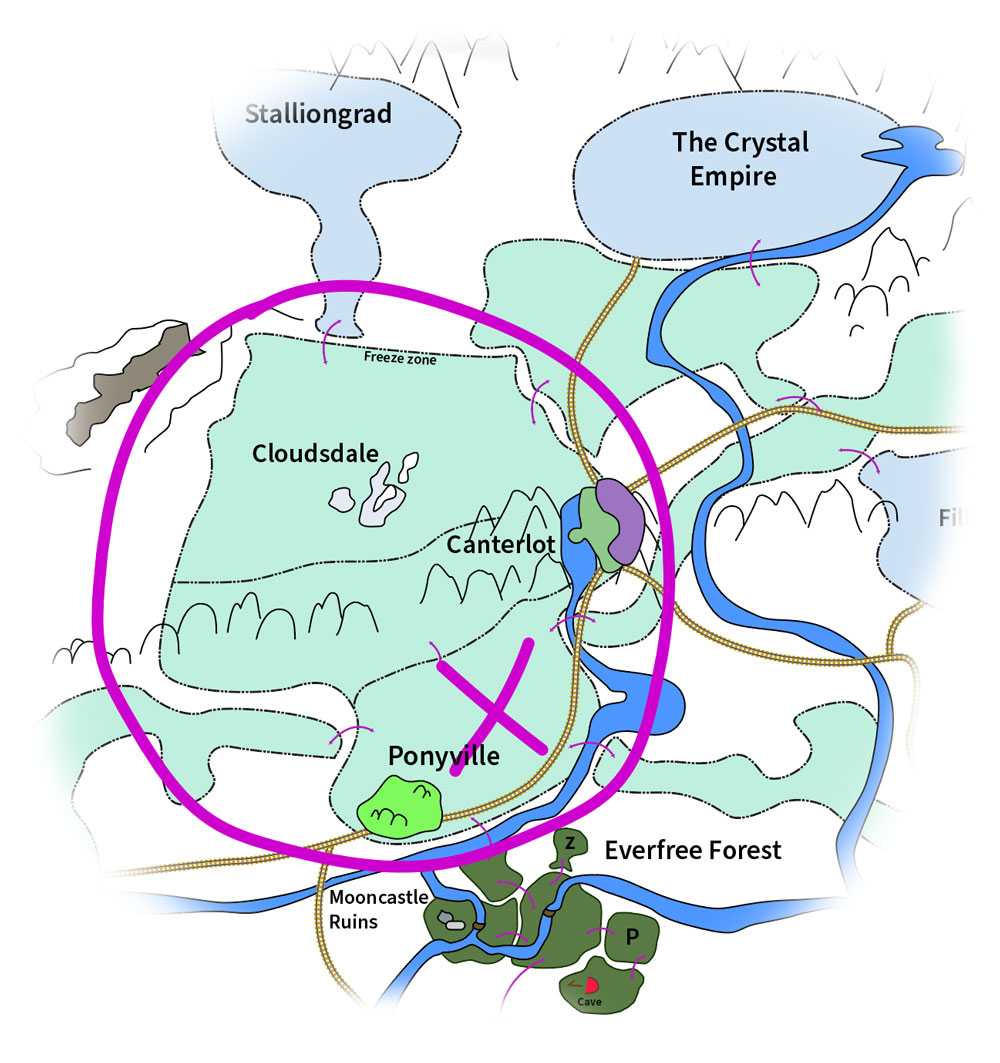
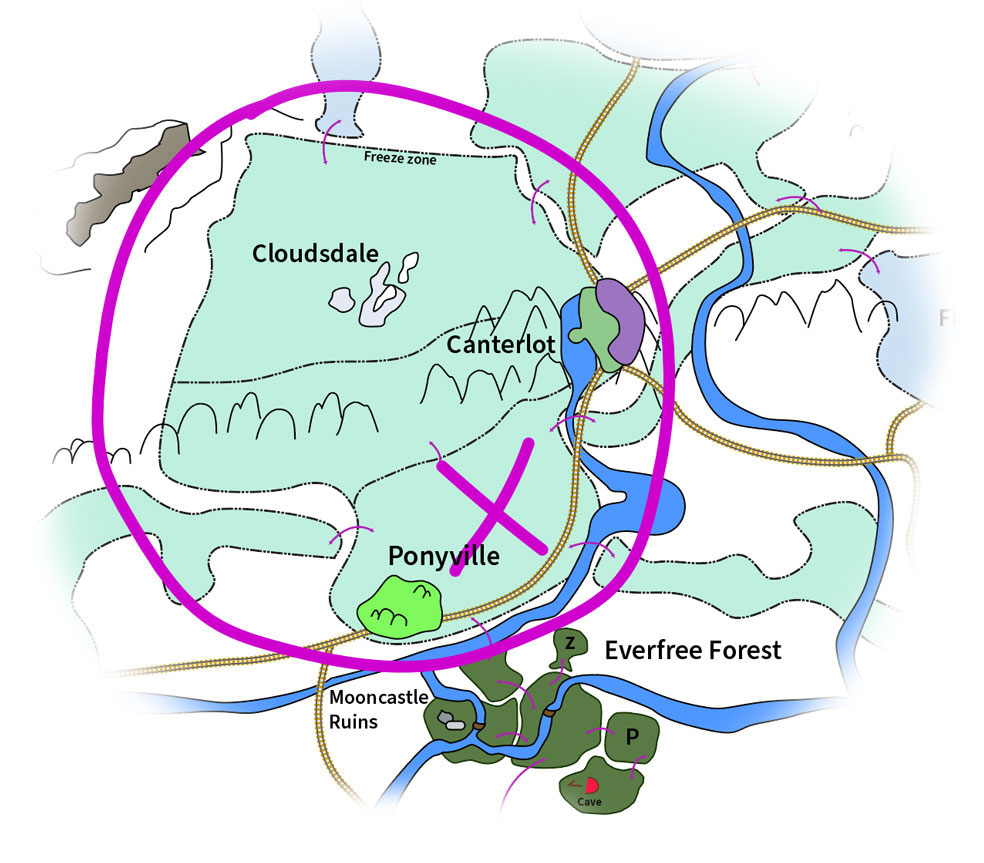
almost done with macro map page
need to add end images of in-unity world. get photoswipe UI working/overlay the main toolbar somehow

diff --git a/maps.html b/maps.html
@@ -54,18 +54,104 @@
         <h3>We needed a connecting zone</h3>
       <p>To connect our big cities and other locations, we needed a middle zone. Based on rough approximations of city location and climate, I diagrammed the world to get us started. Because of scale, I broke this continent into 3 areas to focus on. The Heartlands is the lowest zone with the “X”. </p>
     
-
       <div class="my-gallery" itemscope itemtype="http://schema.org/ImageGallery">
         <figure itemprop="associatedMedia" itemscope itemtype="http://schema.org/ImageObject">
-            <a class="first no-hover" href="img/maps/overworld.jpg" itemprop="contentUrl" data-size="1000x1063">
+            <a class="first no-hover" href="img/maps/overworld.jpg" itemprop="contentUrl" data-size="984x863">
               <img style="max-width: 550px;
-              margin: auto;" src="img/maps/overworld.jpg" itemprop="thumbnail" data-size="1000x1063"  alt="Image description" />
+              margin: auto;" src="img/maps/overworld.jpg" itemprop="thumbnail" data-size="984x863"  alt="Image description" />
               <figcaption class="visible-caption" itemprop="caption description"></figcaption>
           </a>
           <figcaption class="gallery-caption" itemprop="caption description"></figcaption>
         </figure>
       </div>
     
+      <p>For the first cut, I assigned the project to Kaji Ulma, one of our designers. This was one of his early passes, which considered difficulty, terrain, and climate. </p>
+
+      <div class="my-gallery" itemscope itemtype="http://schema.org/ImageGallery">
+        <figure itemprop="associatedMedia" itemscope itemtype="http://schema.org/ImageObject">
+            <a class="first no-hover" href="img/maps/Kaji-Ulma-heartlands-diagram.jpg" itemprop="contentUrl" data-size="1570x1020">
+              <img src="img/maps/Kaji-Ulma-heartlands-diagram.jpg" itemprop="thumbnail" data-size="1570x1020"  alt="Image description" />
+              <figcaption class="visible-caption" itemprop="caption description"><h5 class="u-caption-right">Kaji Ulma</h5></figcaption>
+          </a>
+          <figcaption class="gallery-caption" itemprop="caption description"></figcaption>
+        </figure>
+      </div>
+
+      <p>I divided the Heartlands into 7 zones to break up this large project into smaller pieces. </p>
+
+      <div class="my-gallery" itemscope itemtype="http://schema.org/ImageGallery">
+        <figure itemprop="associatedMedia" itemscope itemtype="http://schema.org/ImageObject">
+            <a class="first no-hover" href="img/maps/TransitionMasterZones-Anya-Biryukova.jpg" itemprop="contentUrl" data-size="1500x1222">
+              <img src="img/maps/TransitionMasterZones-Anya-Biryukova.jpg" itemprop="thumbnail" data-size="1500x1222"  alt="Image description" />
+              <figcaption class="visible-caption" itemprop="caption description"><h5 class="u-caption-right">Thanks to Anya Biryukova for the nice map textures.</h5></figcaption>
+          </a>
+          <figcaption class="gallery-caption" itemprop="caption description"></figcaption>
+        </figure>
+      </div>
+
+      <p>Here’s a few examples of zone sketchwork. As the design lead for a passion project like this, I focused on enabling each person to improve and meaningfully contribute, no matter how skilled they were. Breaking up zone conceptual work among designers significantly sped up word-building and enabled a more diverse pool of ideas for points of interest. </p>
+    
+      <div class="my-gallery" itemscope itemtype="http://schema.org/ImageGallery">
+        <figure itemprop="associatedMedia" itemscope itemtype="http://schema.org/ImageObject">
+            <a class="first no-hover" href="img/maps/zone_2_Dread-Coffins.jpg" itemprop="contentUrl" data-size="2054x1263">
+              <img src="img/maps/zone_2_Dread-Coffins.jpg" itemprop="thumbnail" data-size="2054x1263"  alt="Image description" />
+              <figcaption class="visible-caption" itemprop="caption description"><h5 class="u-caption-right">Zone 2 art by Dread Coffins</h5></figcaption>
+          </a>
+          <figcaption class="gallery-caption" itemprop="caption description"></figcaption>
+        </figure>
+      </div>
+
+      <div class="my-gallery" itemscope itemtype="http://schema.org/ImageGallery">
+        <figure itemprop="associatedMedia" itemscope itemtype="http://schema.org/ImageObject">
+            <a class="first no-hover" href="img/maps/zone-5-Scott-Forrand.jpg" itemprop="contentUrl" data-size="1200x1485">
+              <img style="max-width: 450px;
+              margin: auto;" src="img/maps/zone-5-Scott-Forrand.jpg" itemprop="thumbnail" data-size="1200x1485"  alt="Image description" />
+              <figcaption class="visible-caption" itemprop="caption description"><h5 class="u-caption-right">Zone 5 art by Scott Forrand.</h5></figcaption>
+          </a>
+          <figcaption class="gallery-caption" itemprop="caption description"></figcaption>
+        </figure>
+      </div>
+
+      <div class="my-gallery" itemscope itemtype="http://schema.org/ImageGallery">
+        <figure itemprop="associatedMedia" itemscope itemtype="http://schema.org/ImageObject">
+            <a class="first no-hover" href="img/maps/zone-7-ben-gross.jpg" itemprop="contentUrl" data-size="1854x1238">
+              <img src="img/maps/zone-7-ben-gross.jpg" itemprop="thumbnail" data-size="1854x1238"  alt="Image description" />
+              <figcaption class="visible-caption" itemprop="caption description"><h5 class="u-caption-right">Zone 7 art by Ben Gross</h5></figcaption>
+          </a>
+          <figcaption class="gallery-caption" itemprop="caption description"></figcaption>
+        </figure>
+      </div>
+
+      <p>In tandem to these sketches, designers collaborated with writers and concept artists to ensure points of interest went beyond fascinating eye-candy. I ensured all designers held a from-inception teamwork mentality, allowing lore and story arcs to inform map-making and design.  </p>
+      <p>With all the zones sketched out, I created a final master reference map. </p>
+      <div class="my-gallery" itemscope itemtype="http://schema.org/ImageGallery">
+        <figure itemprop="associatedMedia" itemscope itemtype="http://schema.org/ImageObject">
+            <a class="first no-hover" href="img/maps/Hearlands-topo-zoomed-out.jpg" itemprop="contentUrl" data-size="1200x975">
+              <img src="img/maps/Hearlands-topo-zoomed-out.jpg" itemprop="thumbnail" data-size="1200x975"  alt="Image description" />
+              <figcaption class="visible-caption" itemprop="caption description"></figcaption>
+          </a>
+          <figcaption class="gallery-caption" itemprop="caption description"></figcaption>
+        </figure>
+      </div>
+
+      <div class="my-gallery" itemscope itemtype="http://schema.org/ImageGallery">
+        <figure itemprop="associatedMedia" itemscope itemtype="http://schema.org/ImageObject">
+            <a class="first no-hover" href="img/maps/Hearlands-topo-detail-zone-7.jpg" itemprop="contentUrl" data-size="1894x1492">
+              <img src="img/maps/Hearlands-topo-detail-zone-7.jpg" itemprop="thumbnail" data-size="1894x1492"  alt="Image description" />
+              <figcaption class="visible-caption" itemprop="caption description"><h5 class="u-caption-right">Zone 7 detail (northeast corner)</h5></figcaption>
+          </a>
+          <figcaption class="gallery-caption" itemprop="caption description"></figcaption>
+        </figure>
+      </div>
+      <p>This map brought everything together, and critically incorporated topographic estimations. These estimations enabled Unity terrain modelers to get a sense of height across the Heartlands.</p> 
+      <p>Finally, all of the character, structural, modular, terrain, texture, particle, and other assets were combined to create a 3D world! </p> 
+
+
+
+
+
+
+
     </div>
 
 
